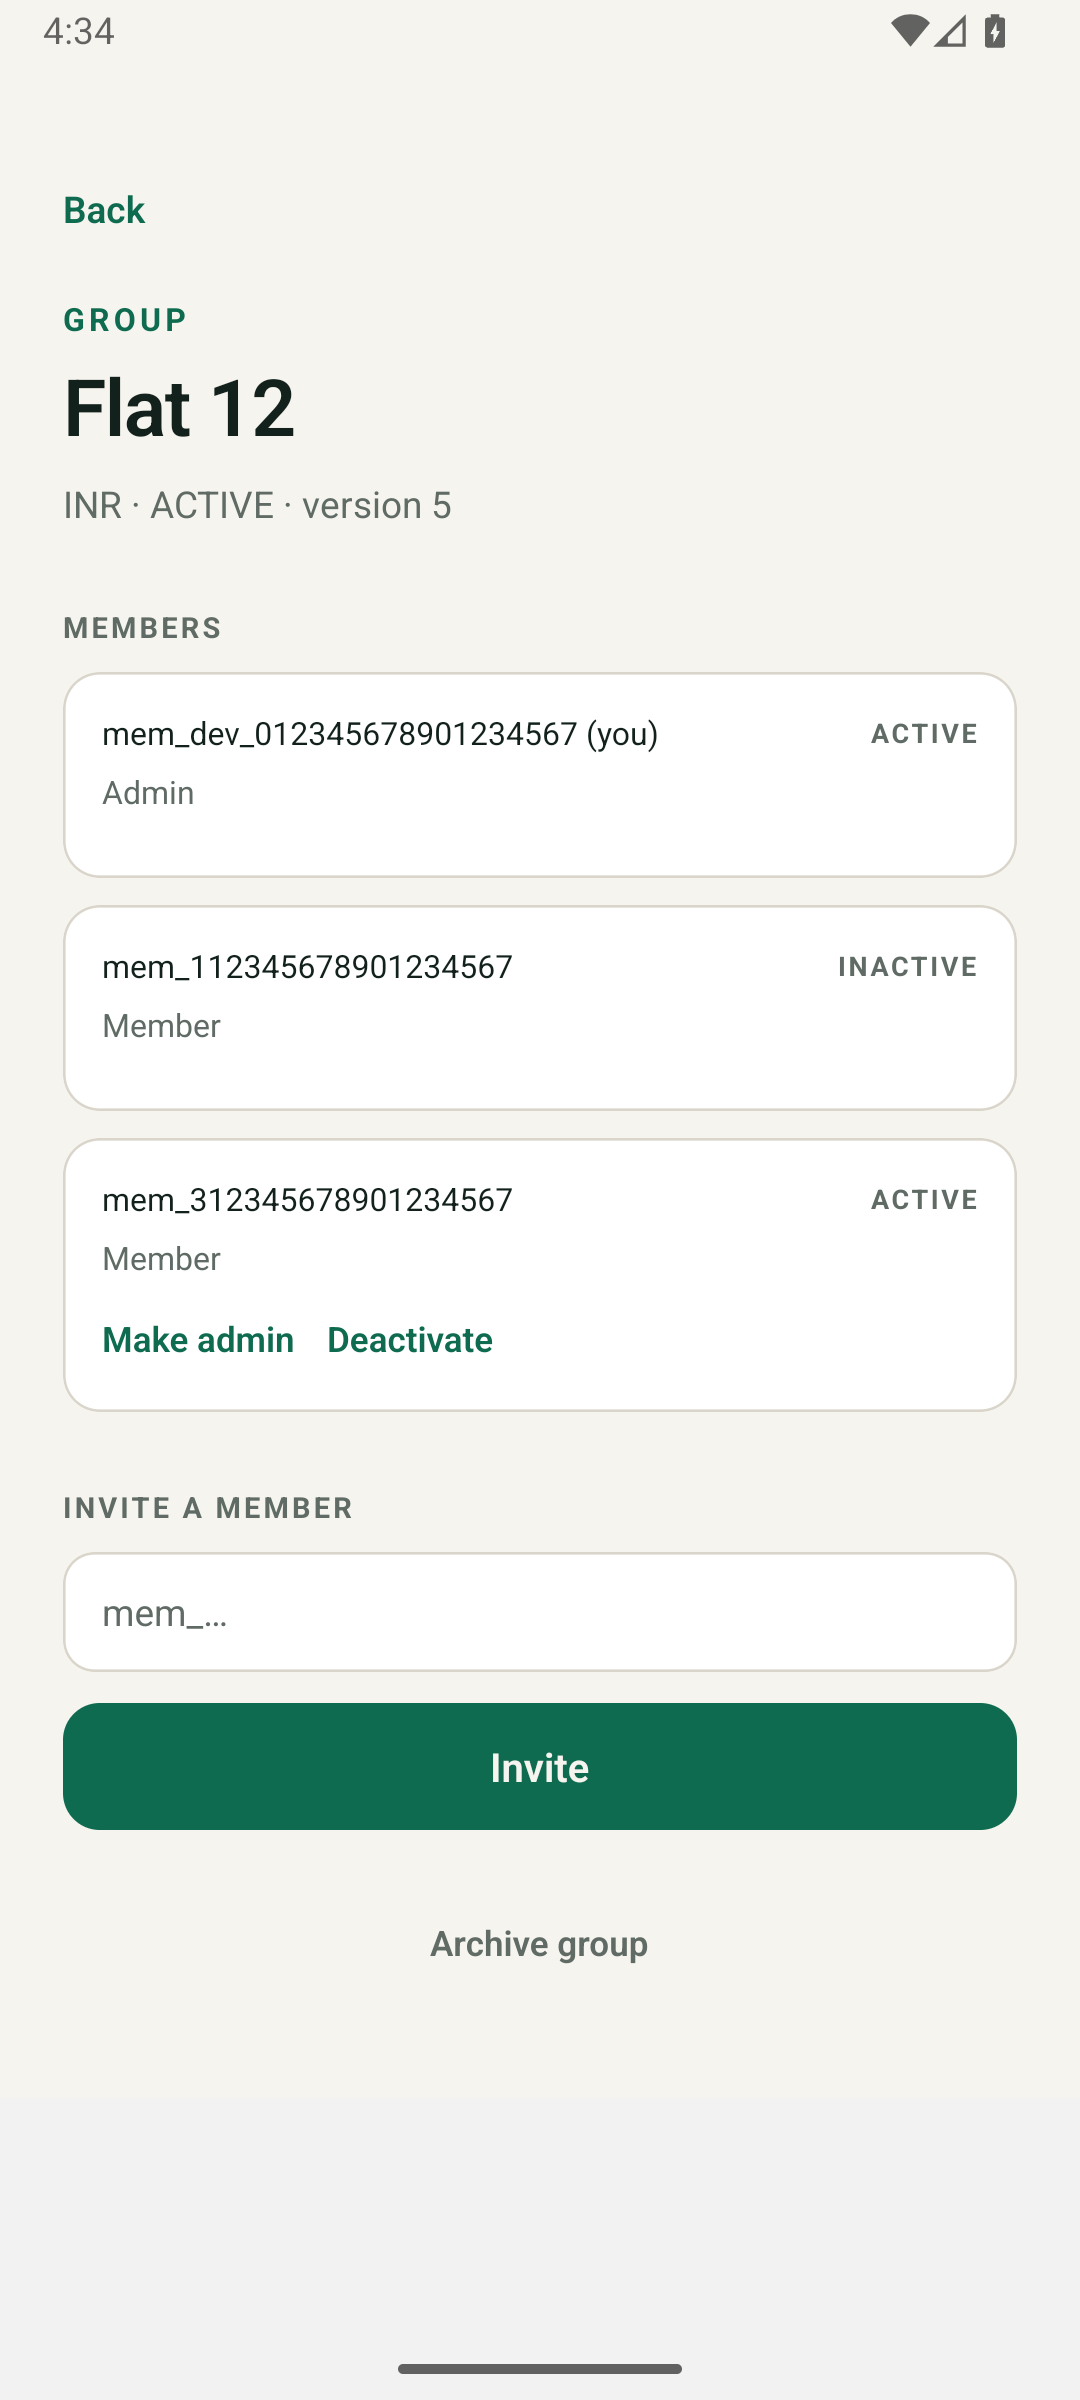
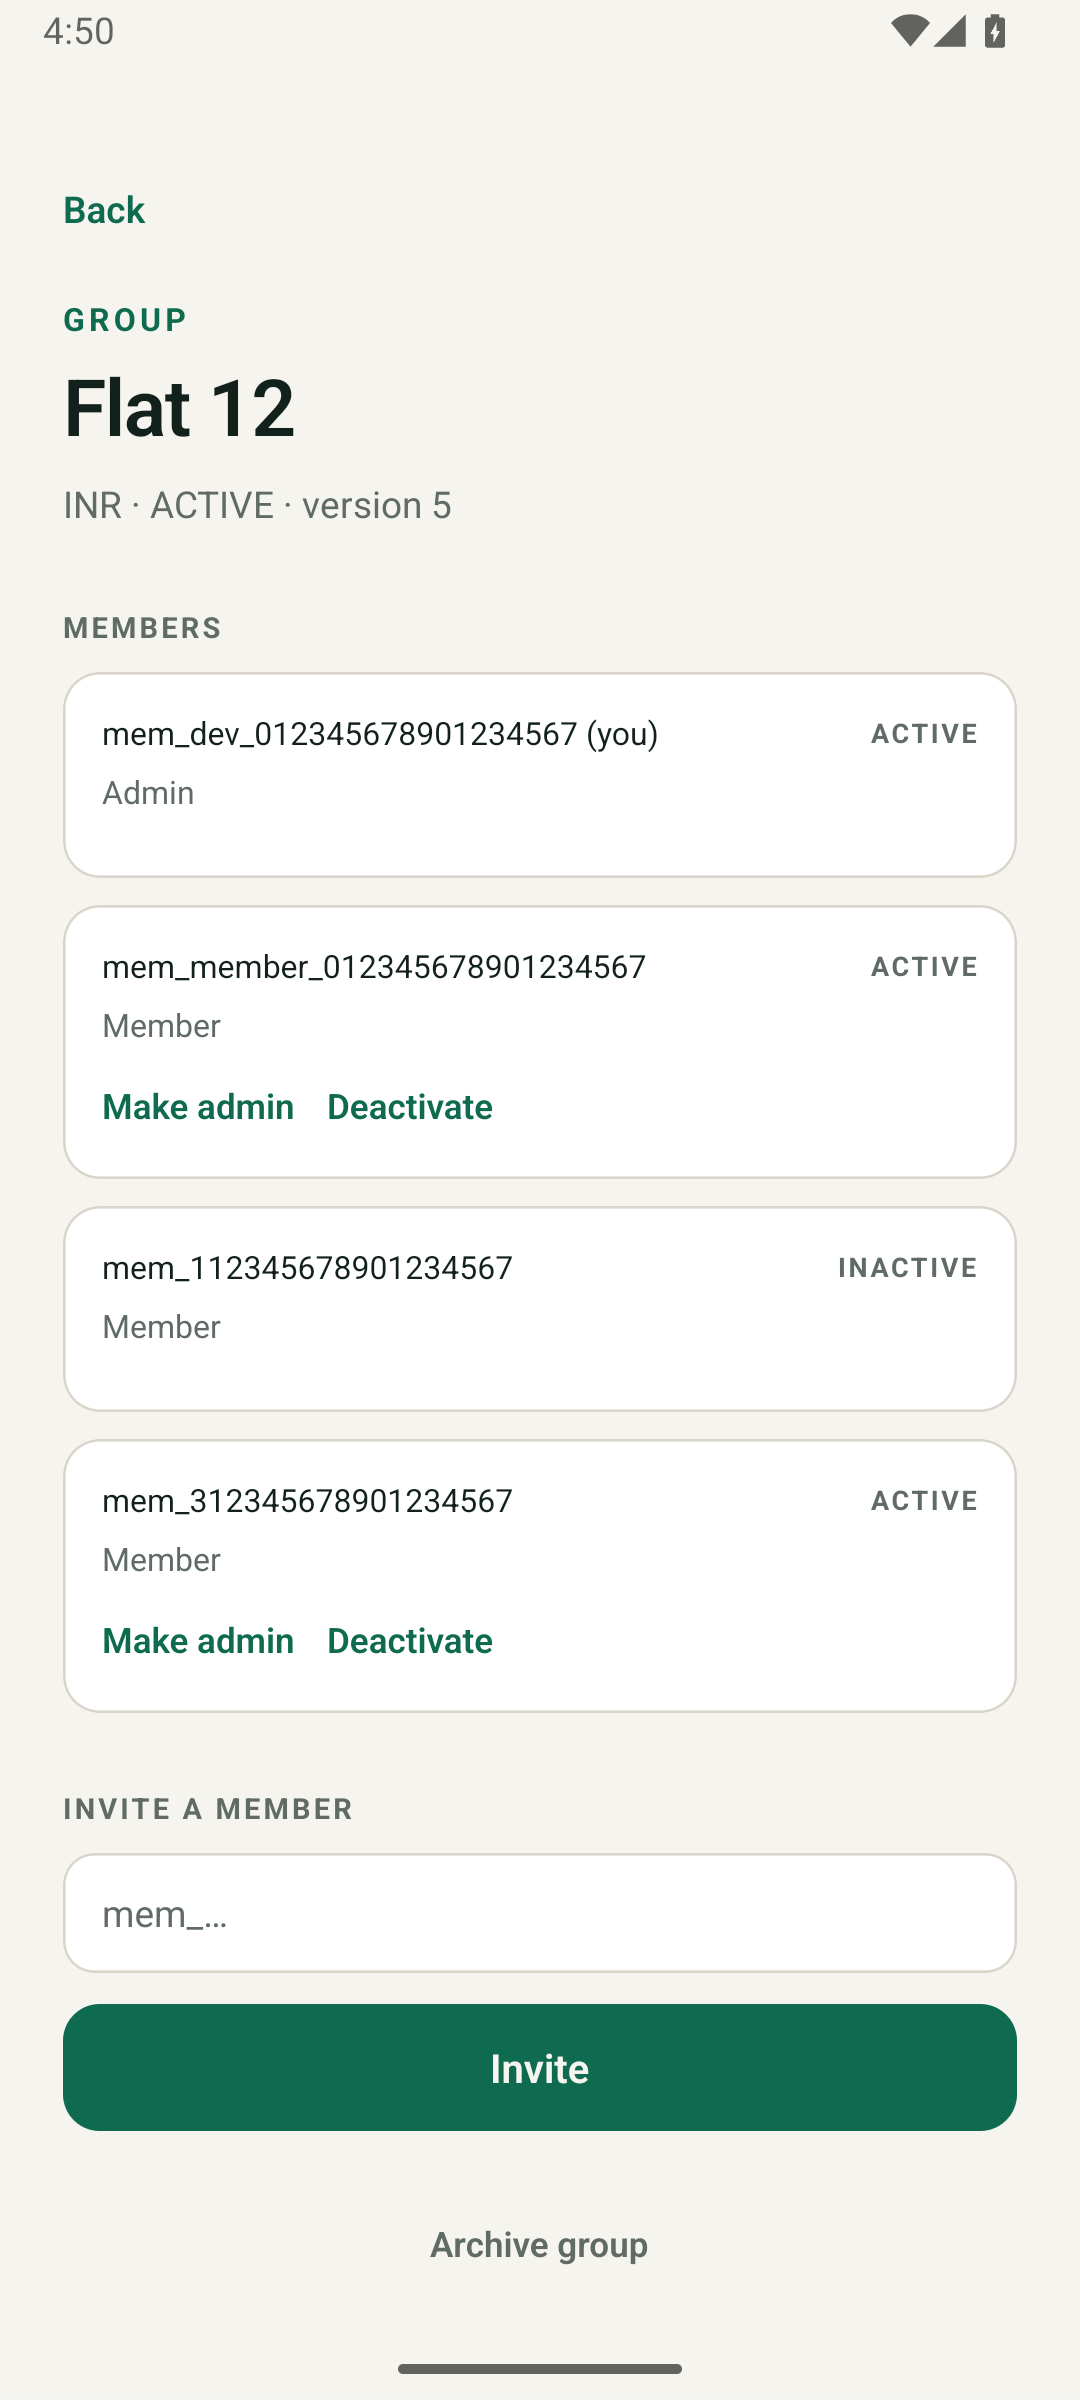
fix(mobile): enforce preconditions and prove the member view
Send the required If-Match version, distinguish stale_version and
last_admin, refresh before showing the stale notice, hide admin controls
for non-admin and archived groups, and add a member-identity device flow
that proves the negative authorization view. Refresh the evidence.

diff --git a/apps/mobile/app/index.tsx b/apps/mobile/app/index.tsx
@@ -22,6 +22,8 @@ import { createDevAccessToken, readAppSubject } from '../src/token';
 const config = createAppConfig(process.env);
 const BOOTING: SessionState = { kind: 'booting', ledgerAvailable: false };
 const DEV = process.env.NODE_ENV !== 'production';
+const DEV_ADMIN_SUBJECT = 'aps_dev_0123456789012345678901';
+const DEV_MEMBER_SUBJECT = 'aps_member_012345678901234567890';
 
 type Failure = { kind: 'offline' | 'contract'; message: string };
 
@@ -199,10 +201,9 @@ export default function HomeScreen() {
     apply({ type: 'logoutCompleted' });
   }, [apply]);
 
-  const startDevSession = useCallback(async () => {
+  const startDevSession = useCallback(async (subject = DEV_ADMIN_SUBJECT) => {
     if (!DEV || !config.devSession) return;
-    const token = createDevAccessToken();
-    const subject = readAppSubject(token);
+    const token = createDevAccessToken(subject);
     await sessionStore.save({ accessToken: token, refreshToken: '', identityId: subject });
     accessToken.current = token;
     expectedSubject.current = subject;
@@ -224,7 +225,8 @@ export default function HomeScreen() {
           message={message}
           onSignIn={signIn}
           devSession={DEV && config.devSession}
-          onDevSession={startDevSession}
+          onDevSession={() => void startDevSession()}
+          onDevMember={() => void startDevSession(DEV_MEMBER_SUBJECT)}
         />
       ) : null}
       {!contractFailure && screen === 'profileRequired' ? (
@@ -268,13 +270,15 @@ function SignedOut({
   message,
   onSignIn,
   devSession,
-  onDevSession
+  onDevSession,
+  onDevMember
 }: {
   busy: boolean;
   message: string | null;
   onSignIn: () => void;
   devSession: boolean;
   onDevSession: () => void;
+  onDevMember: () => void;
 }) {
   return (
     <View style={styles.centered}>
@@ -288,9 +292,14 @@ function SignedOut({
         <Text style={styles.primaryLabel}>{busy ? 'Opening…' : 'Sign in'}</Text>
       </Pressable>
       {devSession ? (
-        <Pressable accessibilityRole="button" onPress={onDevSession} style={styles.quiet}>
-          <Text style={styles.quietLabel}>Use test identity</Text>
-        </Pressable>
+        <>
+          <Pressable accessibilityRole="button" onPress={onDevSession} style={styles.quiet}>
+            <Text style={styles.quietLabel}>Use test identity</Text>
+          </Pressable>
+          <Pressable accessibilityRole="button" onPress={onDevMember} style={styles.quiet}>
+            <Text style={styles.quietLabel}>Use member identity</Text>
+          </Pressable>
+        </>
       ) : null}
     </View>
   );

diff --git a/apps/mobile/app/group/[id].tsx b/apps/mobile/app/group/[id].tsx
@@ -46,13 +46,15 @@ export default function GroupDetailScreen() {
         setError('Sign in again to open this group.');
         return;
       }
-      const [loaded, profile] = await Promise.all([
-        fetchGroup(config.apiBaseUrl, material.accessToken, id),
-        fetchMemberProfile(config.apiBaseUrl, material.accessToken)
-      ]);
+      const loaded = await fetchGroup(config.apiBaseUrl, material.accessToken, id);
       setToken(material.accessToken);
       setGroup(loaded);
-      setMemberId(profile?.memberId ?? null);
+      try {
+        const profile = await fetchMemberProfile(config.apiBaseUrl, material.accessToken);
+        setMemberId(profile?.memberId ?? null);
+      } catch {
+        setMemberId(null);
+      }
     } catch {
       setError('We could not load this group.');
     }
@@ -69,9 +71,11 @@ export default function GroupDetailScreen() {
     try {
       setGroup(await action());
     } catch (failure) {
-      if (failure instanceof GroupHttpError && failure.status === 409) {
-        setError('The group changed. Refreshing the latest state.');
+      if (failure instanceof GroupHttpError && failure.code === 'stale_version') {
         await refresh();
+        setError('The group changed. Refreshed the latest state.');
+      } else if (failure instanceof GroupHttpError && failure.code === 'last_admin') {
+        setError('A group must keep at least one active Admin.');
       } else {
         setError('The action failed. Try again.');
       }
@@ -112,7 +116,7 @@ export default function GroupDetailScreen() {
             key={membership.memberId}
             membership={membership}
             isSelf={membership.memberId === memberId}
-            canManage={Boolean(isAdmin) && !busy}
+            canManage={Boolean(isAdmin) && group.state === 'ACTIVE' && !busy}
             onActivate={() => token
               ? void run(() => activateMember(config.apiBaseUrl, token, group.id, membership.memberId, group.version))
               : undefined}

diff --git a/apps/mobile/src/groups-client.ts b/apps/mobile/src/groups-client.ts
@@ -120,10 +120,23 @@ export async function createGroup(
 }
 
 export class GroupHttpError extends Error {
-  constructor(readonly status: number, message: string) {
+  constructor(readonly status: number, message: string, readonly code: string = 'error') {
     super(message);
     this.name = 'GroupHttpError';
   }
+}
+
+async function toError(response: Response): Promise<GroupHttpError> {
+  let code = 'error';
+  try {
+    const payload = await response.json();
+    if (isRecord(payload) && isRecord(payload.error) && typeof payload.error.code === 'string') {
+      code = payload.error.code;
+    }
+  } catch {
+    // Keep the generic code when the error body is not JSON.
+  }
+  return new GroupHttpError(response.status, `Group request failed with ${response.status}.`, code);
 }
 
 async function send(
@@ -151,7 +164,7 @@ async function send(
     body: body === undefined ? undefined : JSON.stringify(body)
   });
   if (!response.ok) {
-    throw new GroupHttpError(response.status, `Group request failed with ${response.status}.`);
+    throw await toError(response);
   }
   const payload = await response.json();
   if (!isRecord(payload)) {
@@ -171,7 +184,7 @@ export async function fetchGroup(
     headers: { accept: 'application/json', authorization: `Bearer ${accessToken}` }
   });
   if (!response.ok) {
-    throw new GroupHttpError(response.status, `Group request failed with ${response.status}.`);
+    throw await toError(response);
   }
   const payload = await response.json();
   if (!isRecord(payload)) {

diff --git a/apps/mobile/src/groups-client.test.ts b/apps/mobile/src/groups-client.test.ts
@@ -95,10 +95,14 @@ test('fetches one group and sends the version precondition on mutation', async (
   assert.equal(new Headers(calls[2]?.init?.headers).get('if-match'), '"2"');
 });
 
-test('surfaces a stale-version conflict as an HTTP error', async () => {
+test('surfaces a stale-version conflict with its published code', async () => {
   await assert.rejects(
     archiveGroup('https://api.example.test', 'token', group.id, 9,
-      async () => new Response('', { status: 409 })),
-    (error: unknown) => error instanceof GroupHttpError && error.status === 409
+      async () => new Response(JSON.stringify({
+        error: { code: 'stale_version', message: 'The group changed. Refresh and retry.' }
+      }), { status: 409 })),
+    (error: unknown) => error instanceof GroupHttpError
+      && error.status === 409
+      && error.code === 'stale_version'
   );
 });

diff --git a/apps/mobile/app/groups.tsx b/apps/mobile/app/groups.tsx
@@ -75,7 +75,7 @@ export default function GroupsScreen() {
 
       {groups !== null && !error && groups.length === 0 ? (
         <View style={styles.error}>
-          <Text style={styles.muted}>No groups yet. Create one from Home when the composer lands.</Text>
+          <Text style={styles.muted}>No groups yet. Create one with the New group button.</Text>
         </View>
       ) : null}
 

diff --git a/docs/wayfinder/s2/evidence/S2.md b/docs/wayfinder/s2/evidence/S2.md
@@ -1,6 +1,6 @@
 # S2 evidence — Groups and membership
 
-Status: domain, schema, HTTP, Gateway route, mobile list/create/detail/membership flows, concurrency, preconditions, and mapping feed implemented; slice acceptance pending
+Status: all S2 acceptance paths implemented; independent re-review pending
 Agent: opencode/dutch-agent
 Date: 2026-11-01
 
@@ -8,50 +8,55 @@ Date: 2026-11-01
 
 - **Domain** (`services/ledger/src/main/java/com/dutch/ledger/group`): `Group`,
   `Membership`, roles and states with the settled invariants — at least one ACTIVE
-  Admin, INVITED/PLACEHOLDER without app access, INACTIVE read-only history, archive
-  retaining settlements and corrections while stopping new work, and replay-safe
-  membership facts (duplicate ids are no-ops; stale versions never move backwards).
+  Admin, INVITED/PLACEHOLDER without app access, INACTIVE read-only history, and a
+  removed member requiring a fresh invitation and acceptance before reactivation.
+  Archive stops new work while retaining settlements and corrections.
 - **Schema**: `V3__create_group_membership.sql` adds `member_group`,
   `group_membership`, and `group_membership_event`, with checks and deferred
   constraint triggers enforcing the active-Admin rule at commit.
   `V4__app_subject_member_mapping.sql` adds the app-subject authorization projection.
-- **Persistence**: `JdbcGroupRepository` and `JdbcMemberResolver` behind ports;
-  `GroupService` applies the non-enumeration rules (404 for an unreadable scope, 403
-  for a readable scope without the role).
-- **Concurrency and preconditions**: `GroupRepository.save` updates only when the
-  stored `aggregate_version` still matches; a stale writer gets 409. Mutations accept
-  `If-Match: "<version>"`; an explicit mismatch is also 409, and a malformed value is
-  400.
+- **Persistence and concurrency**: `JdbcGroupRepository` and `JdbcMemberResolver`
+  behind ports; `GroupRepository.save` updates only when the stored
+  `aggregate_version` still matches. Mutations require `If-Match: "<version>"`; a
+  mismatch is 409 `stale_version`, a malformed value is 400.
+- **Membership replay**: `JdbcGroupMembershipEventConsumer` persists each event once,
+  rejects a skipped version, applies it through the aggregate, and saves with the
+  previous version. The unique `(group_id, aggregate_version)` row makes replay
+  restart-safe.
 - **Mapping feed**: `JdbcMemberMappingConsumer` applies the UMS mapping fact
-  idempotently, rejects event-id reuse with a different payload, ignores stale mapping
+  idempotently, classifies an event-id reuse race as a conflict, ignores stale mapping
   versions, and gates resolution on `ACTIVE`.
 - **HTTP**: `/api/v1/groups` create/list, group read, membership invite/placeholder,
   activate, deactivate, role change, archive, and reopen, all authenticated with the
   OAuth2 resource server. Errors use `invalid_request`, `unauthorized`, `forbidden`,
-  `not_found`, `conflict`, and `service_unavailable` with a correlation id.
+  `not_found`, `stale_version`, `last_admin`, `conflict`, and `service_unavailable`
+  with a correlation id. A non-member gets 404 on every group scope, including
+  activation; a readable non-admin gets 403.
 - **Contract**: `contracts/http/ledger/openapi.yaml` and fixtures wired into the
-  validation harness, including the `If-Match` parameter, a negative unknown-role
+  validation harness, including the required `If-Match` header, a negative unknown-role
   case, and a bearer-auth check on every route.
 - **Gateway**: `/api/v1/groups/**` requires authentication and forwards to the Ledger.
 - **Mobile**: closed `groups-client` parsing; group list, create, and detail screens;
   invite, activate, deactivate, role change, archive, and reopen actions; loading,
-  empty, retry, and stale-version states.
+  empty, retry, stale-version, and last-admin states. Admin controls are hidden for a
+  non-admin member.
 
 ## Device evidence (Android)
 
-Three flows ran on `Medium_Phone_API_36.0` after the S2 changes:
+Four flows ran on `Medium_Phone_API_36.0`:
 
 ```bash
 maestro --device emulator-5554 test apps/mobile/.maestro/groups.yaml
 maestro --device emulator-5554 test apps/mobile/.maestro/create-group.yaml
 maestro --device emulator-5554 test apps/mobile/.maestro/group-detail.yaml
+maestro --device emulator-5554 test apps/mobile/.maestro/member-view.yaml
 ```
 
-They passed: signed-out render, test identity, group list, create group, open the
-detail, invite `mem_312345678901234567`, activate it, archive the group, and reopen it.
-Screenshots: `android-groups.png`, `android-group-created.png`,
-`android-group-detail.png`. The flows run against the local mock API, so they prove the
-client contract and states, not the live Ledger.
+They passed: group list, create group, admin invite/activate/archive/reopen, and a
+non-admin member view that shows the group and its members but no invite or archive
+controls. Screenshots: `android-groups.png`, `android-group-created.png`,
+`android-group-detail.png`, `android-member-view.png`. The flows use the local mock API,
+so they prove the client contract and states, not the live Ledger.
 
 ## Verification
 
@@ -61,26 +66,30 @@ TESTCONTAINERS_RYUK_DISABLED=true JAVA_HOME=/opt/homebrew/opt/openjdk@21 \
 ./gradlew test verifyServiceBoundaries verifyContracts
 ```
 
-- Ledger: 40 tests — domain invariants, deferred-constraint schema, JDBC
-  repository/concurrency, mapping consumer, and HTTP/security including `If-Match`.
+- Ledger: 47 tests — domain invariants, deferred-constraint schema, JDBC
+  repository/concurrency, mapping consumer, membership replay, and HTTP/security.
+- IAM: 21 tests (reference adapter; the `Instant` binding is now explicit).
 - Gateway: 24 tests.
+- UMS: 18 tests; Notification: 3 (1 skipped).
 - Contracts: 12 tests, 0 validation issues.
 - Mobile: 38 tests; typecheck and lint clean.
 
 ## Not yet implemented
 
 - Idempotency keys for group commands; stale writes are rejected but a client retry is
-  not yet deduplicated.
-- Archived-group settlements and corrections, which the domain already permits.
+  not deduplicated.
+- Archived-group settlement and correction commands, which the domain permits.
 - Server-side authorization on any future non-group Ledger route.
 - A real IAM/UMS run; the reference adapters still do not transport onboarding events.
-- Placeholder-member creation from the mobile UI (the API supports it).
+- Placeholder-member creation from the mobile UI (the API supports it) and UMS display
+  names in the member list.
 
 ## Residual findings
 
 - The controller tests use in-memory repository/resolver adapters; the JDBC path is
-  covered by repository and mapping integration tests rather than an HTTP integration
-  test.
-- The mapping consumer has no transport wiring yet; it is ready for the W-13 relay.
-- Concurrent membership edits return 409; the mobile shows a refresh prompt but has no
-  merge/retry composer for a stale command.
+  covered by repository, mapping, and replay integration tests rather than an HTTP
+  integration test.
+- The membership replay and mapping consumers have no transport wiring yet; they are
+  ready for the W-13 relay.
+- A concurrent membership edit returns `stale_version`; the mobile refreshes and tells
+  the person, but there is no merge/retry composer for the stale command.
